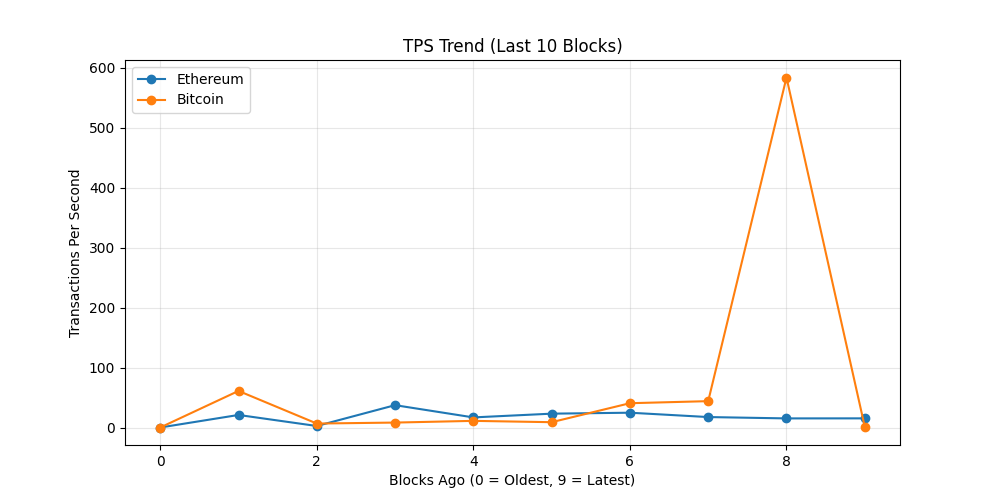
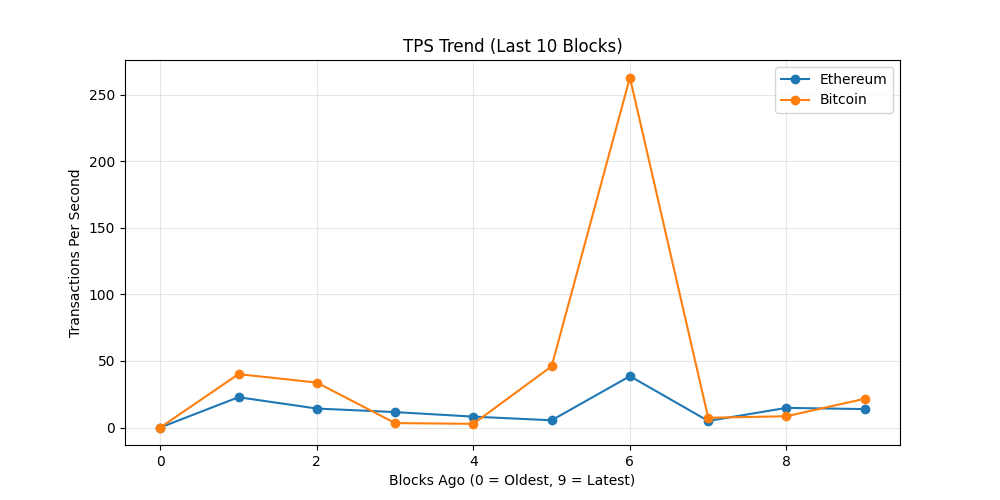
chore: update on-chain dashboard

diff --git a/README.md b/README.md
@@ -19,7 +19,7 @@ The README itself acts as the dashboard and is regenerated automatically on a 6 
 demonstrating a production-style, infrastructure-focused observability workflow rather
 than a traditional UI-driven approach.
 
-_Last updated: 2026-09-04 20:44 UTC_
+_Last updated: 2026-09-05 04:25 UTC_
 
 ## API Usage (GetBlock.io)
 - Calls used: **24**
@@ -27,8 +27,8 @@ _Last updated: 2026-09-04 20:44 UTC_
 ## Network Metrics
 | Chain | Block Height | TX Count | TPS (10 blk avg) | Block Util | Avg Fee |
 |------|-------------|----------|------------------|------------|---------|
-| Ethereum | 25906423 | 183 | 15.25 | 50.72% | 0.1 Gwei |
-| Bitcoin | 965522 | 4086 | 1.28 | 99.8% | N/A |
+| Ethereum | 25908724 | 166 | 13.83 | 51.72% | 0.1 Gwei |
+| Bitcoin | 965563 | 6416 | 21.6 | 99.8% | N/A |
 
 ## Visuals
 ### Transactions Trend
@@ -43,11 +43,9 @@ _Last updated: 2026-09-04 20:44 UTC_
 ## Whale Alerts (latest block)
 - Transaction hashes are truncated for readability.
 - Full hashes are available in `dashboards/metrics.json`
-- Bitcoin | 176.01 BTC | `18ef94dcdee4…`
-- Bitcoin | 152.92 BTC | `411610f55ed7…`
-- Bitcoin | 284.15 BTC | `b789b34ef581…`
-- Bitcoin | 674.48 BTC | `c319f0d542e4…`
-- Bitcoin | 146.83 BTC | `843c33ac5a5e…`
+- Bitcoin | 167.38 BTC | `df8d3a4f562f…`
+- Bitcoin | 187.26 BTC | `0899e0065f36…`
+- Bitcoin | 143.12 BTC | `5c070c333e9d…`
 
 ## Run locally
 
